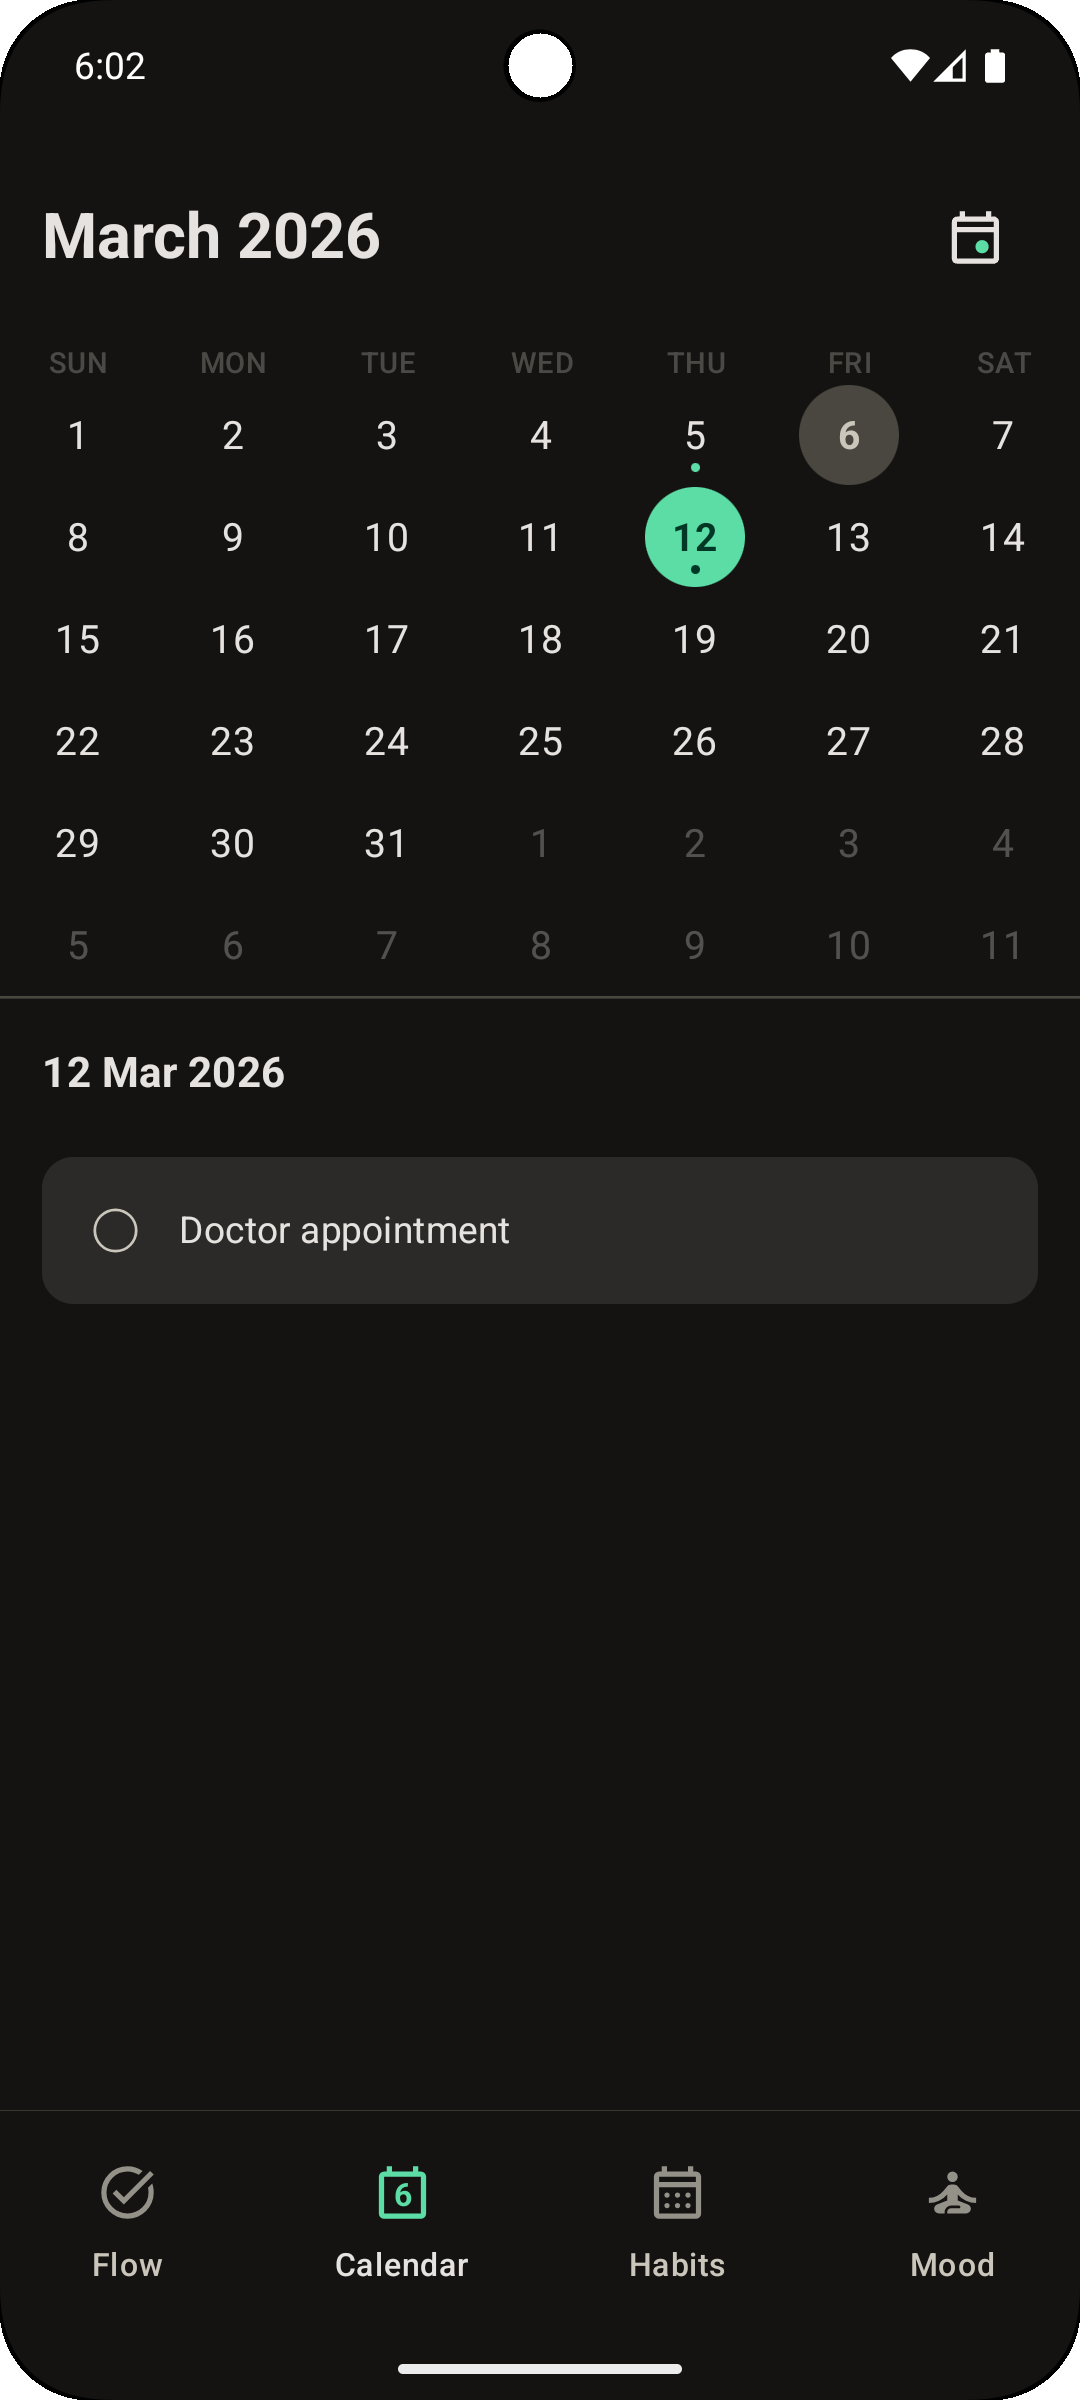
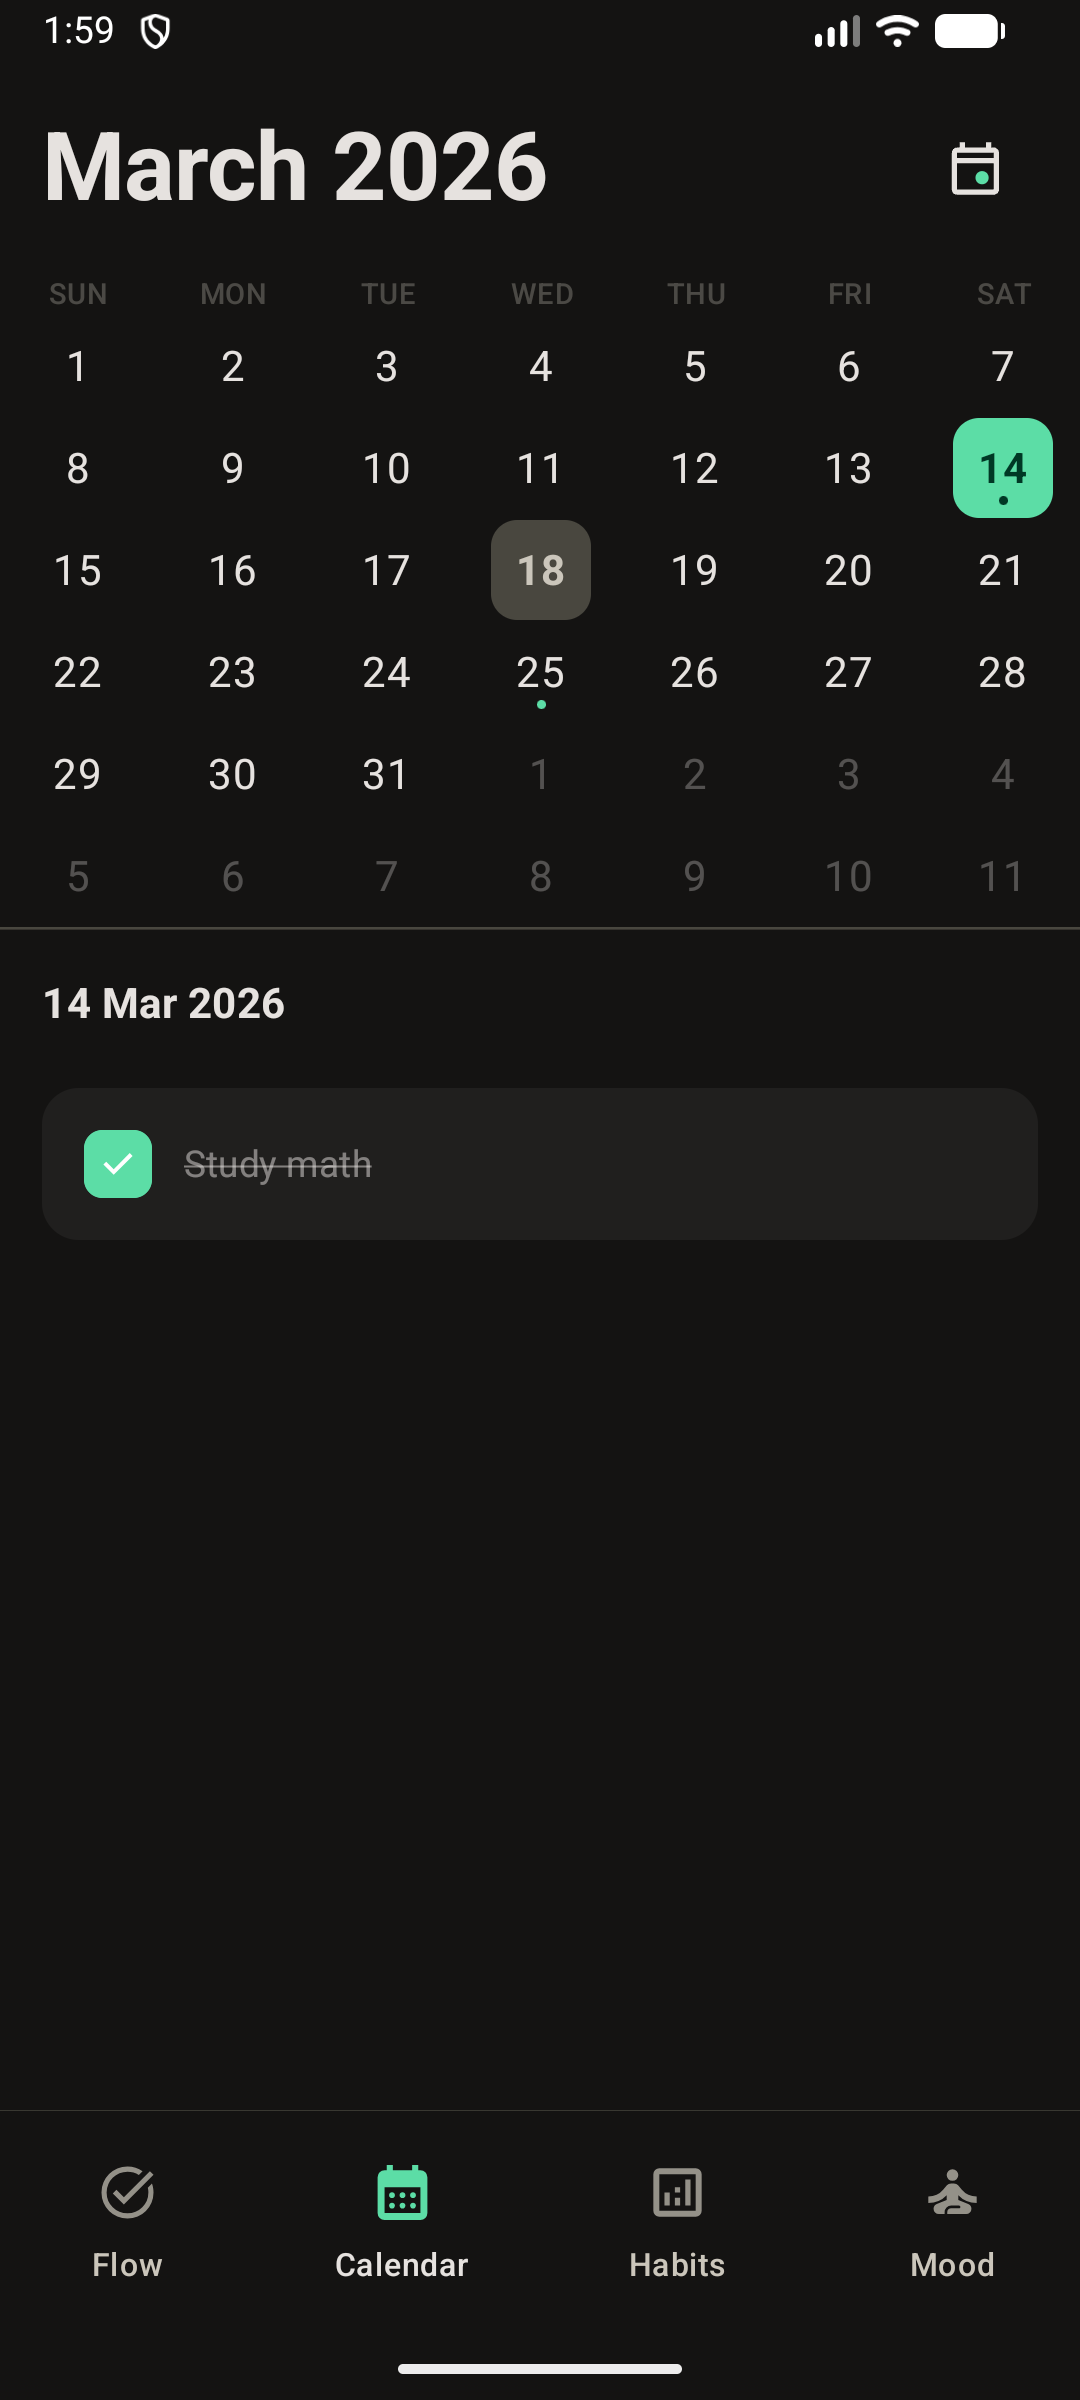
docs: update screenshots

diff --git a/README.md b/README.md
@@ -11,9 +11,15 @@
 > This project is actively being developed and may have bugs. We welcome contributions from the community!
 
 ## Screenshots
-| ![Image 1](screenshots/home_dark.png)  |   ![Image 2](screenshots/home_light.png)   |
-|:--------------------------------------:|:------------------------------------------:|
-| ![Image 3](screenshots/edit_light.png) | ![Image 4](screenshots/calendar_night.png) |
+
+<div align="center">
+  <img src="screenshots/home_dark.png" width="31%" />
+  <img src="screenshots/home_light.png" width="31%" />
+  <img src="screenshots/calendar_night.png" width="31%" />
+  <br>
+  <img src="screenshots/habits_prev.png" width="31%" />
+  <img src="screenshots/habits_details.png" width="31%" />
+</div>
 
 ## Features
 